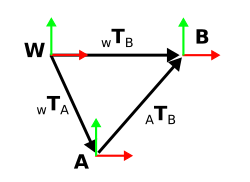
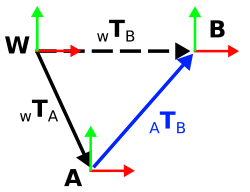
Adding to residual doc

Changed region(s): [[0.0, 0.0275, 0.952, 0.989], [0.56, 0.5769, 0.756, 0.7143]]

diff --git a/sf_gdn/sf_gdn/documentation/residuals.md b/sf_gdn/sf_gdn/documentation/residuals.md
@@ -1,3 +1,24 @@
-3D odometry residual
+<u>3D odometry residual</u>
 
-![transforms](pngs/3D_odometry_residual.png)
+![transforms](pngs/3D_odometry_residual.png)  
+$\ residual(_WT_A,\ _WT_B,\ _AT_B,\ \sigma)  $  
+$\ _WT_A $ - Previous pose, assume it's correct  
+$\ _WT_B $ - The transform being optimized / calculated  
+$\ _AT_B $ - From measurement  
+$\ \sigma $ - TODO: MAGICALLY HANDLED WITH TANGENT SPACE PERTUBATIONS  
+
+$\ _A\hat{T}_B = (_WT_A)^{-1}\times _WT_B  $  
+$\ tangent\_error = _A\hat{T}_B.local\_coordinates(_AT_B) $
+
+<u>Matching residual (2D) </u>  
+
+![transforms](pngs/matching_residual.png)  
+$\ residual(_Wt_L,\ _WT_B,\ _Bt_L,\ \sigma) $  
+$\ _Wt_L $ - Known global position of landmark  
+$\ _WT_B $ - The transform being optimized / calculated  
+$\ _Bt_L $ - From measurement of landmark from current pose   
+$\ \sigma $ - Standard deviation of measurement  
+
+$\ _B\hat{t}_L = (_WT_B)^{-1}\times _Wt_L $  
+$\ error = \frac{_B\hat{t}_L - _Bt_L}{\sigma} $  
+Note - The bigger the stddev, the less effect on the optimization
